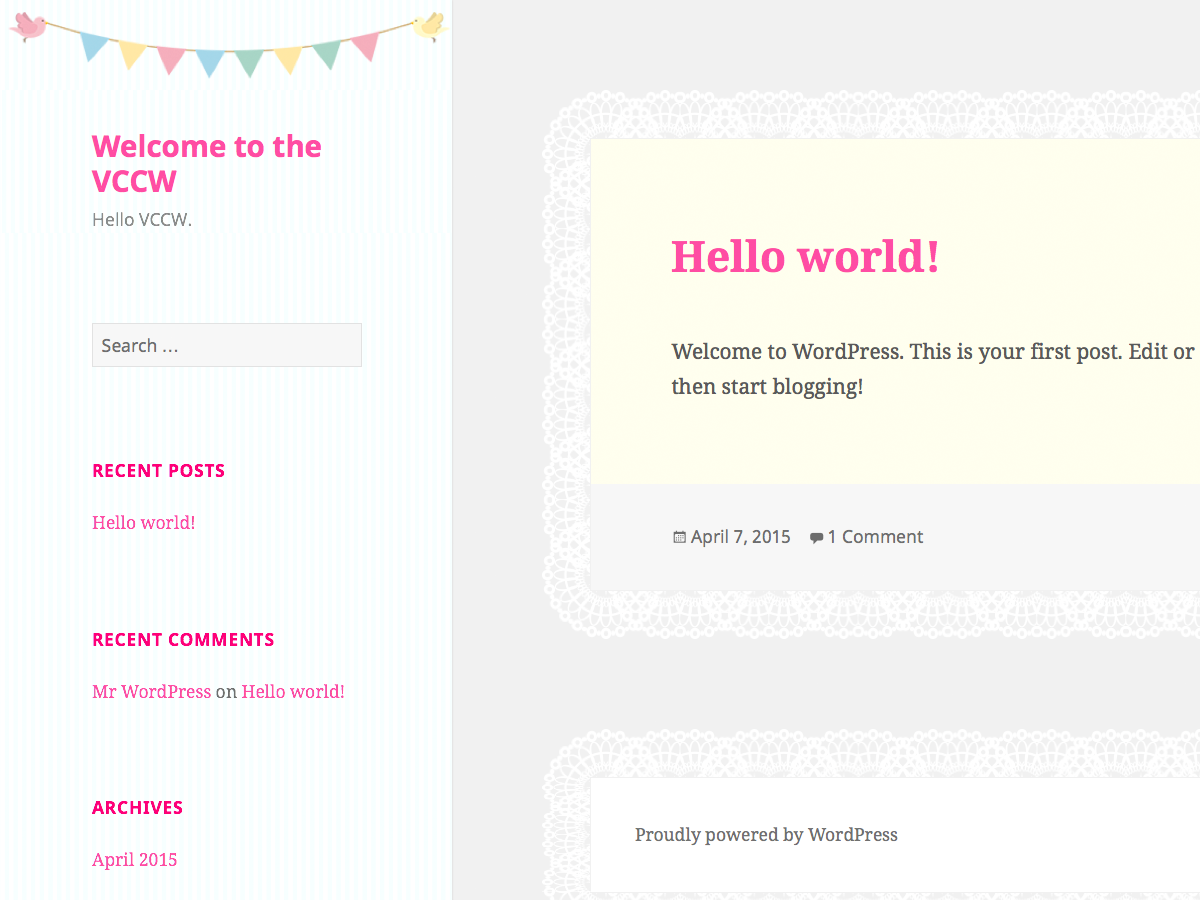
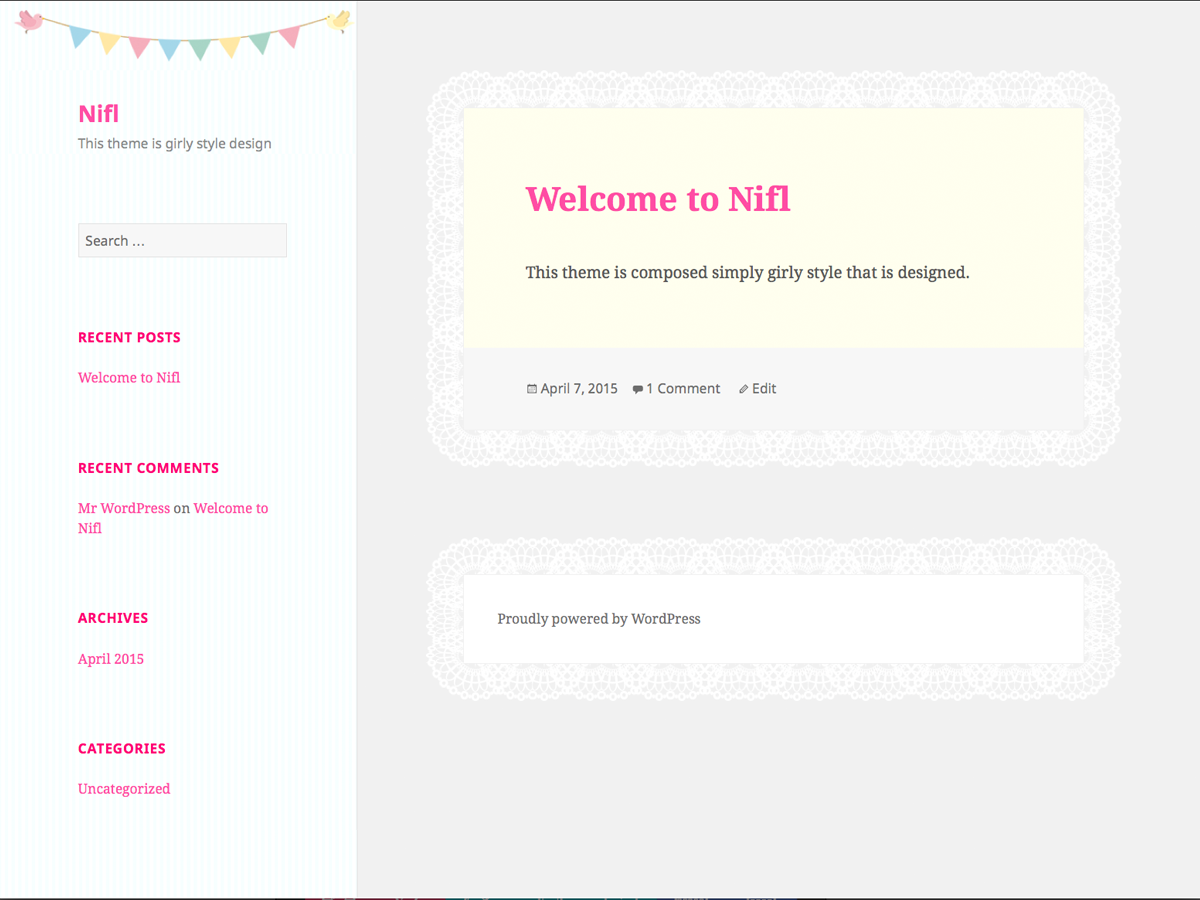
tags-modification-add

diff --git a/sass/style.scss b/sass/style.scss
@@ -6,7 +6,7 @@ Author:         YAT
 Author URI:     http:wp.yat-net.com
 Template:       twentyfifteen
 Version:        1.1
-Tags:          Gurley
+Tags:          pink, two-columns, light, left-sidebar
 Text Domain:    nifl
 */
 

diff --git a/readme.md b/readme.md
@@ -14,6 +14,9 @@ This is a theme that has the image of a lovely woman.
 
 ### Changelog
 
+v1.2
+* tag modification and add
+
 v1.1
 * remove customizer colors
 
